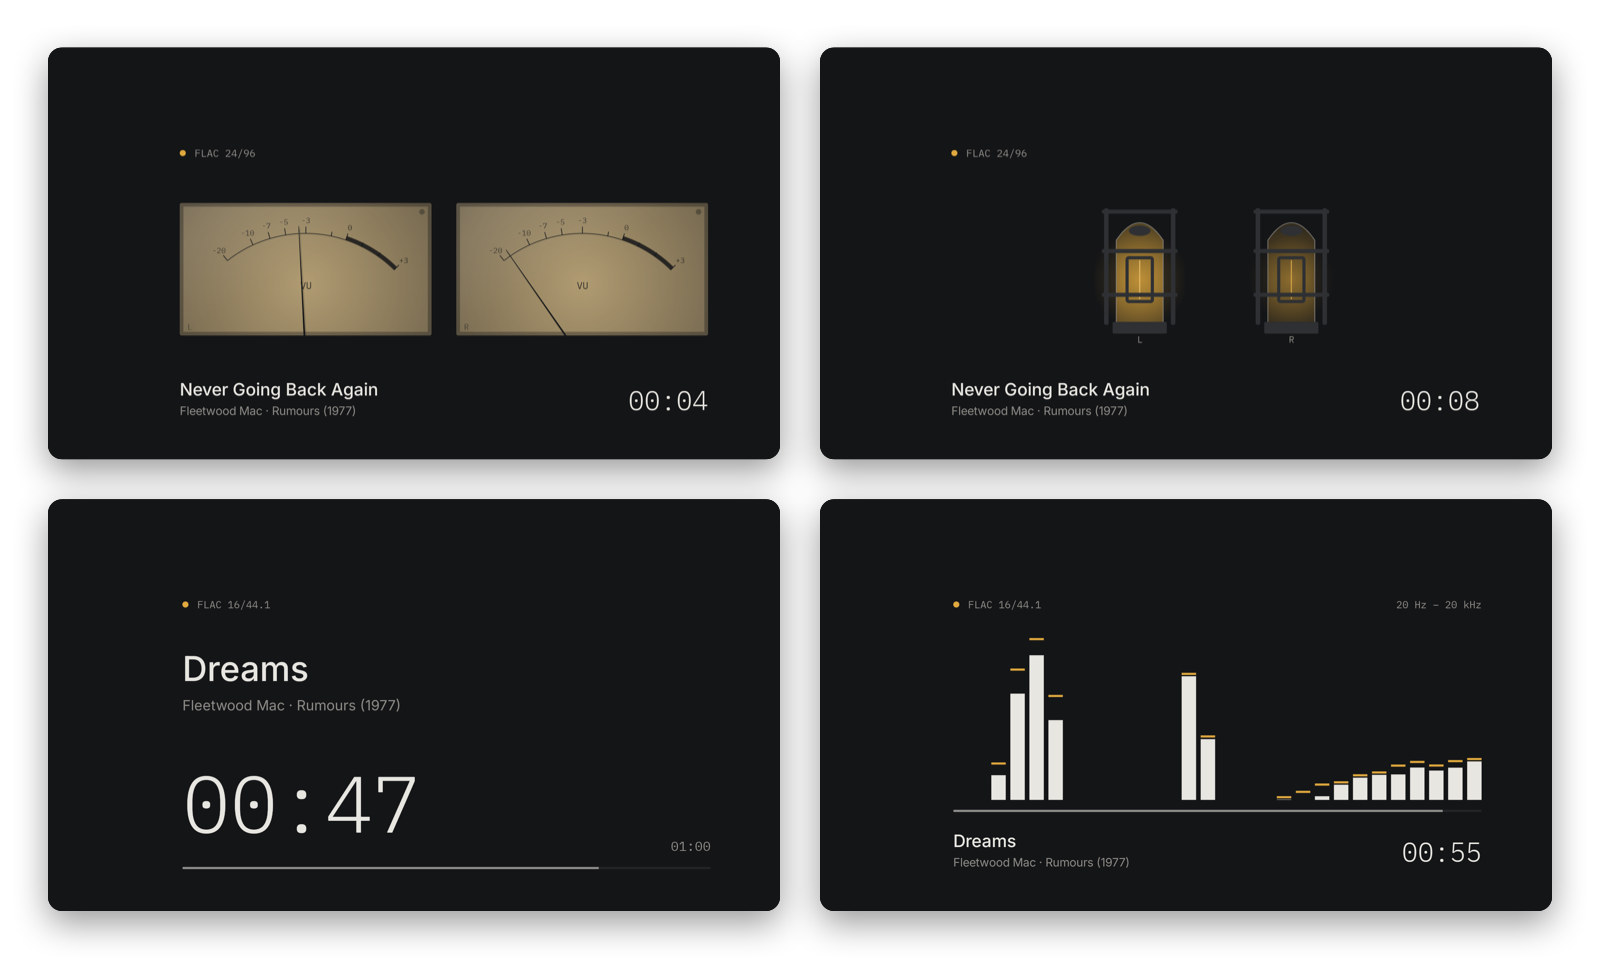
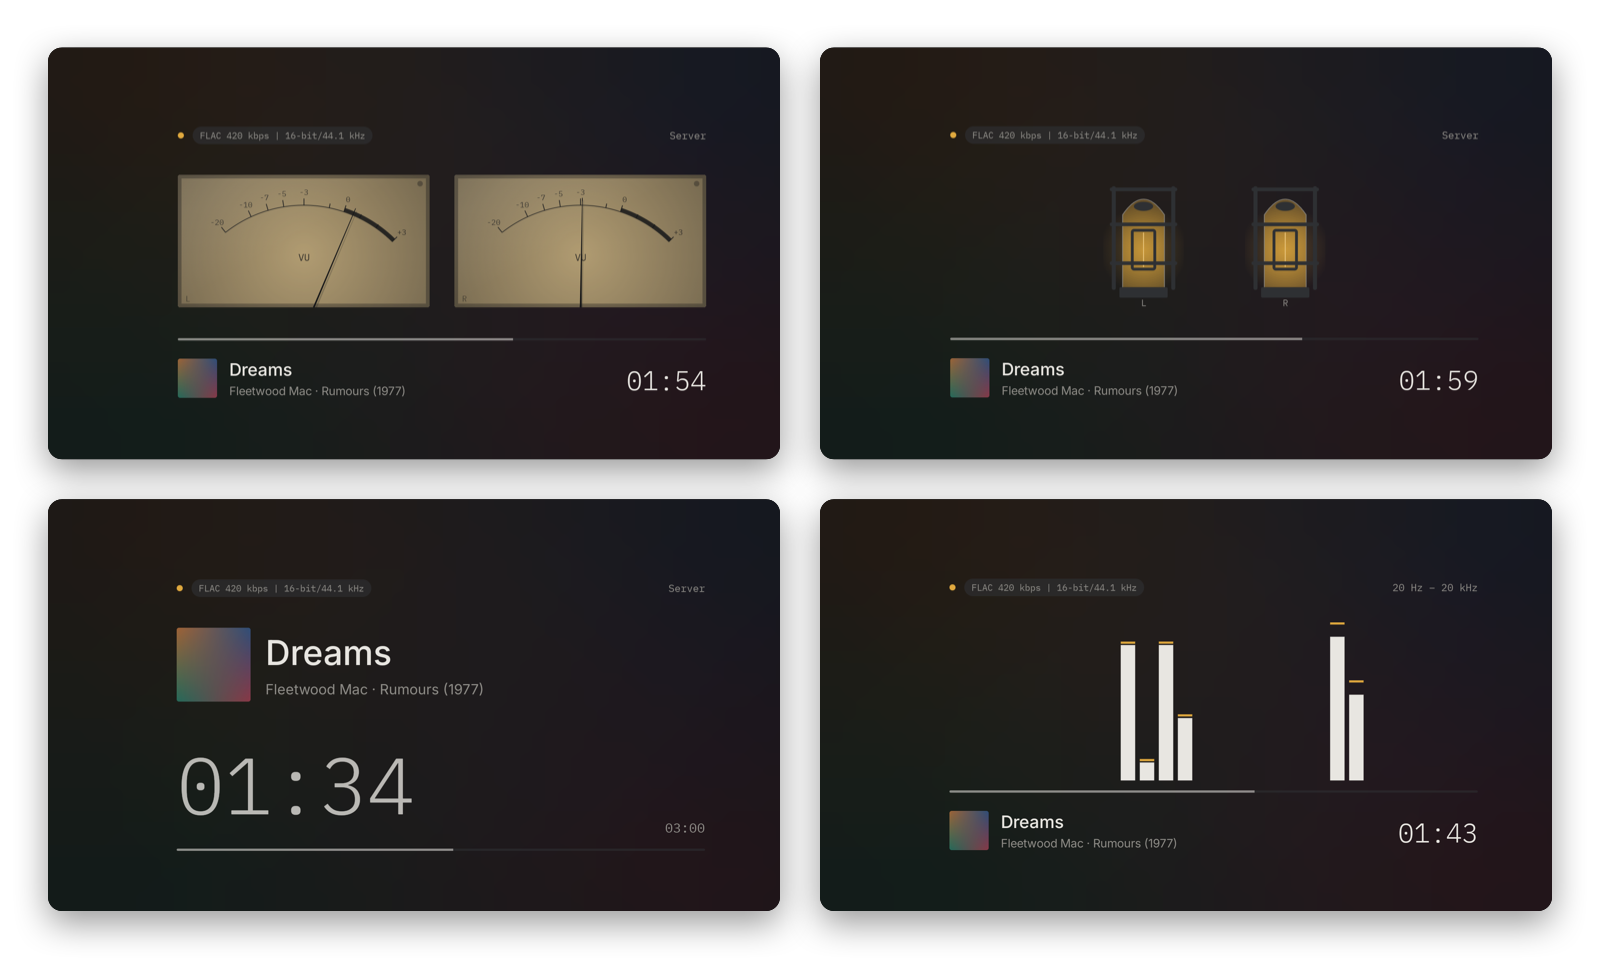
The TV's changes in the changelog (1.13), the matrix, the README and the site; new TV images
The matrix gains the quality line, the ambient glow and scrubbing, and Jellyfin covers from the
album's folder (TV first; planned on the Mac and Windows). make-tv-images.swift no longer paints over
the top-right readout: it names the source now, not the server's address.

diff --git a/scripts/make-tv-images.swift b/scripts/make-tv-images.swift
@@ -3,8 +3,6 @@
 // Usage, from the repository root:
 //   swift scripts/make-tv-images.swift <screenshots-folder> docs/screenshots
 // The folder holds queue, folders, equalizer, display, spectrum, needles, valves, orange and phosphor (.png).
-// The top-right readout of the needles, valves and display faces (the server's address) is painted over:
-// it would show a test server's.
 import AppKit
 
 let args = CommandLine.arguments
@@ -34,8 +32,7 @@ func canvas(_ size: CGSize, _ name: String, draw: () -> Void) {
 }
 
 /// A TV screen: the screenshot with rounded corners and a soft shadow, as the Mac images' windows.
-/// `hideReadout` covers an ambient face's top-right readout with the face's own background.
-func screen(_ image: NSImage, in rect: CGRect, radius: Double, hideReadout: Bool = false) {
+func screen(_ image: NSImage, in rect: CGRect, radius: Double) {
     let path = NSBezierPath(roundedRect: rect, xRadius: radius, yRadius: radius)
     NSGraphicsContext.saveGraphicsState()
     let shadow = NSShadow()
@@ -49,13 +46,6 @@ func screen(_ image: NSImage, in rect: CGRect, radius: Double, hideReadout: Bool
     NSGraphicsContext.saveGraphicsState()
     path.addClip()
     image.draw(in: rect, from: .zero, operation: .sourceOver, fraction: 1, respectFlipped: true, hints: nil)
-    if hideReadout {
-        // A patch of empty background from just above the readout (NSImage rects start at the bottom).
-        let k = rect.width / 1920
-        image.draw(in: CGRect(x: rect.minX + 1300 * k, y: rect.minY + 240 * k, width: 460 * k, height: 76 * k),
-                   from: CGRect(x: 1300, y: 1080 - 236, width: 460, height: 76),
-                   operation: .copy, fraction: 1, respectFlipped: true, hints: nil)
-    }
     NSGraphicsContext.restoreGraphicsState()
 }
 
@@ -70,15 +60,15 @@ func single(_ name: String, _ file: String) {
 }
 
 /// Screens in a grid, 1600 wide.
-func grid(_ names: [String], columns: Int, _ file: String, hideReadout: Set<String> = []) {
+func grid(_ names: [String], columns: Int, _ file: String) {
     let images = names.map(load)
     let gap = 40.0
     let w = (1600 - 2 * margin - gap * Double(columns - 1)) / Double(columns), h = w * 9 / 16
     let rows = (images.count + columns - 1) / columns
     canvas(CGSize(width: 1600, height: 2 * margin + Double(rows) * h + Double(rows - 1) * gap), file) {
-        for (i, (name, img)) in zip(names, images).enumerated() {
+        for (i, img) in images.enumerated() {
             let x = margin + Double(i % columns) * (w + gap), y = margin + Double(i / columns) * (h + gap)
-            screen(img, in: CGRect(x: x, y: y, width: w, height: h), radius: 14, hideReadout: hideReadout.contains(name))
+            screen(img, in: CGRect(x: x, y: y, width: w, height: h), radius: 14)
         }
     }
 }
@@ -86,6 +76,5 @@ func grid(_ names: [String], columns: Int, _ file: String, hideReadout: Set<Stri
 single("queue", "tv.png")
 single("folders", "tv-folders.png")
 single("equalizer", "tv-equalizer.png")
-grid(["needles", "valves", "display", "spectrum"], columns: 2, "tv-ambient.png",
-     hideReadout: ["needles", "valves", "display"])
+grid(["needles", "valves", "display", "spectrum"], columns: 2, "tv-ambient.png")
 grid(["orange", "phosphor"], columns: 1, "tv-skins.png")

diff --git a/site/pt/index.html b/site/pt/index.html
@@ -197,7 +197,7 @@
         </div>
         <div data-for="tv">
           <h3>O comando faz tudo</h3>
-          <p>Tocar, pausar, saltar e avançar com o comando. Mantém OK carregado para pôr uma pasta ou uma faixa na fila, ou para a mover e tirar; Voltar pergunta antes de sair.</p>
+          <p>Tocar, pausar, saltar e avançar com o comando: OK na barra de posição e depois ← → andam 10 segundos de cada vez. A fila e as pastas são dois separadores; uma tecla de modo passa pelo aleatório e pelo repetir. Mantém OK carregado para pôr uma pasta ou uma faixa na fila, ou para a mover e tirar; Voltar pergunta antes de sair.</p>
         </div>
         <div data-for="mac windows">
           <h3>Jellyfin, por pastas</h3>
@@ -248,7 +248,7 @@
       <div>
         <p class="label">modo ambiente</p>
         <h2>Um visor de <span class="nowrap">hi-fi</span> para a sala</h2>
-        <p class="muted" data-for="tv">Carrega na tecla do visor e a TV inteira passa a ser o visor da NuVa, para deixar a música a tocar como parte da sala. ← e → mudam a face; qualquer outra tecla traz o leitor de volta.</p>
+        <p class="muted" data-for="tv">Carrega na tecla do visor e a TV inteira passa a ser o visor da NuVa, para deixar a música a tocar como parte da sala. ← e → mudam a face, ↓ anda pela faixa, ↑ ou Voltar trazem o leitor de volta. A capa do álbum está em todas as faces, com as suas cores a brilhar atrás; sem capa, um brilho suave na luz da skin.</p>
         <p class="muted" data-for="mac">Carrega em ⌘4 e o ecrã inteiro passa a ser o visor da NuVa, para deixar a música a tocar como parte da sala. Desenhado ao ritmo do teu ecrã, até 120 Hz, e a par do que ouves, também por AirPlay.</p>
         <p class="muted" data-for="windows">Carrega em Ctrl+4 ou F11 e o ecrã inteiro passa a ser o visor da NuVa, para deixar a música a tocar como parte da sala. Desenhado ao ritmo do teu ecrã, e a par do que ouves.</p>
         <ul>

diff --git a/site/index.html b/site/index.html
@@ -196,7 +196,7 @@
         </div>
         <div data-for="tv">
           <h3>The remote does everything</h3>
-          <p>Play, pause, skip and seek from the remote. Hold OK to add a folder or a track to the queue, or to move and remove it; Back asks before leaving.</p>
+          <p>Play, pause, skip and seek from the remote: OK on the position bar, then ← → move 10 seconds a press. Queue and folders are two tabs; one mode key moves through shuffle and repeat. Hold OK to add a folder or a track to the queue, or to move and remove it; Back asks before leaving.</p>
         </div>
         <div data-for="mac windows">
           <h3>Jellyfin, by folder</h3>
@@ -247,7 +247,7 @@
       <div>
         <p class="label">ambient mode</p>
         <h2>A hi-fi display for the room</h2>
-        <p class="muted" data-for="tv">Press the display key and the whole TV becomes NuVa's display, to leave the music playing as part of the room. ← and → change the face; any other key brings the player back.</p>
+        <p class="muted" data-for="tv">Press the display key and the whole TV becomes NuVa's display, to leave the music playing as part of the room. ← and → change the face, ↓ moves through the track, ↑ or Back brings the player back. The album's cover is on every face, with its colours glowing behind; without one, a soft glow in the skin's own light.</p>
         <p class="muted" data-for="mac">Press ⌘4 and the whole screen becomes NuVa's display, to leave the music playing as part of the room. Drawn at your screen's own rate, up to 120 Hz, and in time with what you hear, AirPlay included.</p>
         <p class="muted" data-for="windows">Press Ctrl+4 or F11 and the whole screen becomes NuVa's display, to leave the music playing as part of the room. Drawn at your screen's own rate, and in time with what you hear.</p>
         <ul>

diff --git a/README.md b/README.md
@@ -169,7 +169,7 @@ Graphite Orange and Phosphor.
 </tr>
 </table>
 
-The same player for the living room, on an Android TV box or a TV with Android TV (8.1 or later). It plays your **Jellyfin** server by its real folders and streams the original files: FLAC, 24-bit included, through Android's own player and decoders. It has what the Mac app has where a TV allows: the display with the spectrum, the 10-band equalizer, the queue, repeat and shuffle, all six ambient faces with OLED protection, album artwork with the cover's glow, the skins and font sets. The remote does everything: hold OK to add to the queue, or to move and remove; Back asks before leaving. It reopens where you were.
+The same player for the living room, on an Android TV box or a TV with Android TV (8.1 or later). It plays your **Jellyfin** server by its real folders and streams the original files: FLAC, 24-bit included, through Android's own player and decoders. It has what the Mac app has where a TV allows: the display with the spectrum, the 10-band equalizer, the queue, repeat and shuffle, all six ambient faces with OLED protection, album artwork with the cover's glow, the skins and font sets. The remote does everything: queue and folders are two tabs at the top of the right column, one mode key moves through normal, shuffle, repeat all and repeat one, and OK on the position bar lets ← → move through the track, 10 seconds a press (↓ does it in ambient mode). Hold OK to add to the queue, or to move and remove; Back asks before leaving. A badge shows the format, bitrate, bit depth and sample rate. Covers come first from the image in the album's folder on the server, and without one a soft glow in the skin's light sits behind the ambient faces. It reopens where you were.
 
 To install it, open the **Downloader** app on the TV (free, in the Play Store) and type `nuva.martinsnuno.com/tv`. Or download [NuVa-AndroidTV.apk](https://github.com/martinsmdnuno/nuva/releases/latest/download/NuVa-AndroidTV.apk) and copy it with a USB stick. Android asks once to allow apps from Downloader (or from the file manager).
 
@@ -200,6 +200,7 @@ To install it, download **[NuVa-Windows.zip](https://github.com/martinsmdnuno/nu
 |---|:-:|:-:|:-:|
 | Folders as they are: a folder is an album, natural sort, never tags | ✓ | ✓ | ✓ |
 | The display names the artist's and album's folders, scrolling when they're too long | ✓ | ✓ | later |
+| Format, bitrate, bit depth and sample rate on the display | ✓ | ✓ | ✓ |
 | Folders on the computer, external disks and network shares | ✓ | — | ✓ |
 | Jellyfin by its real folders, streaming the original file | ✓ | ✓ | ✓ |
 | Audio CDs, named from MusicBrainz | ✓ | — | ✓ |
@@ -210,7 +211,10 @@ To install it, download **[NuVa-Windows.zip](https://github.com/martinsmdnuno/nu
 | 10-band equalizer with presets | ✓ | ✓ | ✓ |
 | Spectrum on the display, in time with what you hear | ✓ | ✓ | ✓ |
 | Ambient mode: six full-screen faces, with OLED protection | ✓ | ✓ | ✓ |
+| A glow behind the ambient faces, from the cover or, without one, the skin's own light | later | ✓ | later |
+| Move through the track from ambient mode | later | ✓ | later |
 | Album artwork: the folder's image, then MusicBrainz by folder names | ✓ | ✓ | ✓ |
+| Jellyfin covers from the image file in the album's folder | later | ✓ | later |
 | Correct a wrong or missing cover | ✓ | later | ✓ |
 | Skins (Rams, Graphite Orange, Phosphor) and five font pairs | ✓ | ✓ | ✓ |
 | Compact mode, and a mini player when the window is closed | ✓ | — | ✓ |
@@ -328,7 +332,7 @@ Toca FLAC pelo motor de áudio de cada sistema (o da própria Apple, no Mac), en
 
 ### Na TV: NuVa para Android TV
 
-O mesmo leitor para a sala, numa box Android TV ou numa TV com Android TV (8.1 ou posterior). Toca o teu servidor **Jellyfin** pelas pastas reais e os ficheiros originais: FLAC, 24 bits incluídos, pelo leitor e pelos descodificadores do próprio Android. Tem o que a app do Mac tem onde uma TV deixa: o visor com o espectro, o equalizador de 10 bandas, a fila, repetir e aleatório, as seis faces do modo Ambiente com proteção OLED, as capas com o brilho do álbum, as skins e as fontes. O comando faz tudo: manter OK carregado junta à fila, ou move e tira; Voltar pergunta antes de sair. Volta a abrir onde estavas.
+O mesmo leitor para a sala, numa box Android TV ou numa TV com Android TV (8.1 ou posterior). Toca o teu servidor **Jellyfin** pelas pastas reais e os ficheiros originais: FLAC, 24 bits incluídos, pelo leitor e pelos descodificadores do próprio Android. Tem o que a app do Mac tem onde uma TV deixa: o visor com o espectro, o equalizador de 10 bandas, a fila, repetir e aleatório, as seis faces do modo Ambiente com proteção OLED, as capas com o brilho do álbum, as skins e as fontes. O comando faz tudo: a fila e as pastas são dois separadores no topo da coluna da direita, uma tecla de modo passa por normal, aleatório, repetir tudo e repetir faixa, e OK na barra de posição deixa ← → andar pela faixa, 10 segundos de cada vez (no modo Ambiente, com ↓). Manter OK carregado junta à fila, ou move e tira; Voltar pergunta antes de sair. Um selo mostra o formato, o bitrate, os bits e a frequência. As capas vêm primeiro da imagem na pasta do álbum, no servidor, e sem capa um brilho suave na luz da skin fica atrás das faces do Ambiente. Volta a abrir onde estavas.
 
 Para instalar, abre a app **Downloader** na TV (gratuita, na Play Store) e escreve `nuva.martinsnuno.com/tv`. Ou descarrega o [NuVa-AndroidTV.apk](https://github.com/martinsmdnuno/nuva/releases/latest/download/NuVa-AndroidTV.apk) e copia-o com uma pen USB. O Android pede uma vez para permitir apps vindas do Downloader (ou do gestor de ficheiros).
 
@@ -345,6 +349,7 @@ Para instalar, descarrega o **[NuVa-Windows.zip](https://github.com/martinsmdnun
 |---|:-:|:-:|:-:|
 | Pastas como estão: uma pasta é um álbum, ordem natural, nunca tags | ✓ | ✓ | ✓ |
 | O visor mostra as pastas do artista e do álbum, a rolar quando não cabem | ✓ | ✓ | mais tarde |
+| Formato, bitrate, bits e frequência no visor | ✓ | ✓ | ✓ |
 | Pastas no computador, discos externos e partilhas de rede | ✓ | — | ✓ |
 | Jellyfin pelas pastas reais, com o ficheiro original | ✓ | ✓ | ✓ |
 | CDs áudio, com os nomes do MusicBrainz | ✓ | — | ✓ |
@@ -355,7 +360,10 @@ Para instalar, descarrega o **[NuVa-Windows.zip](https://github.com/martinsmdnun
 | Equalizador de 10 bandas com presets | ✓ | ✓ | ✓ |
 | Espectro no visor, a par com o que ouves | ✓ | ✓ | ✓ |
 | Modo Ambiente: seis faces em ecrã inteiro, com proteção OLED | ✓ | ✓ | ✓ |
+| Um brilho atrás das faces do ambiente, da capa ou, sem ela, da luz da skin | mais tarde | ✓ | mais tarde |
+| Andar pela faixa no modo ambiente | mais tarde | ✓ | mais tarde |
 | Capas: a imagem da pasta, depois o MusicBrainz pelos nomes das pastas | ✓ | ✓ | ✓ |
+| Capas do Jellyfin a partir da imagem na pasta do álbum | mais tarde | ✓ | mais tarde |
 | Corrigir uma capa errada ou em falta | ✓ | mais tarde | ✓ |
 | Skins (Rams, Graphite Orange, Phosphor) e cinco pares de fontes | ✓ | ✓ | ✓ |
 | Modo compacto, e um mini player com a janela fechada | ✓ | — | ✓ |

diff --git a/CHANGELOG.md b/CHANGELOG.md
@@ -1,5 +1,18 @@
 # Changelog
 
+## 1.13 — the TV, by hand
+
+- Android TV: queue and folders are two tabs at the top of the right column, each with its light; OK on one shows it, and Back from a list goes up to them. The folders key on the left is gone.
+- Android TV: one mode key moves through normal, shuffle, repeat all and repeat one, with the mode's name under it.
+- Android TV: the position bar takes the focus. OK holds it, ← → move 10 seconds a press (faster when held), the track goes there when you let go; OK keeps the place, Back goes back. In ambient mode ↓ holds the bar, ↑ leaves.
+- Android TV: a quality badge on the display and the ambient faces: "FLAC 905 kbps | 16-bit/44.1 kHz", the bitrate being the file's average, as on the Mac and Windows.
+- Android TV: covers come first from the image file in the album's folder on your Jellyfin server (cover, folder, front, album or capa), then from MusicBrainz; an image Jellyfin took from the tags never counts. Settings shows where the playing album's cover came from, and a lookup that couldn't reach the server is tried again.
+- Android TV: the cover is on every ambient face, and without one a soft glow in the skin's own light sits behind the face. The glow breathes with the bass and drifts slowly, paused too; with OLED Protection the big time is a little dimmer.
+- Android TV: every ambient face has the position bar, and the top line names the source ("Server") instead of the server's address.
+- Android TV: in the equalizer the arrows move between the on/off key, the presets and the bands; OK on a band holds it for ↑ ↓, OK or Back lets go.
+- Android TV: names too long for a list end in an ellipsis; with the focus they slide, with a pause at the start and soft ends.
+- Android TV: finer icons, one spacing throughout, and the display's lines lined up.
+
 ## 1.12.1 — the remote reaches everything, Windows in step
 
 - Android TV: the equalizer's presets and its on/off key can be reached with the remote: the presets come first, as on the Mac, and Back on a fader goes back to them. The active preset is lit by its LED.
